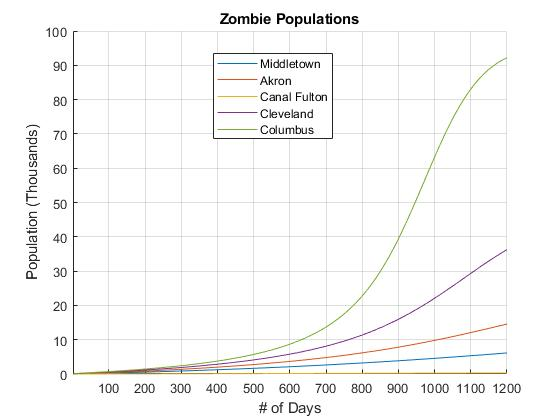
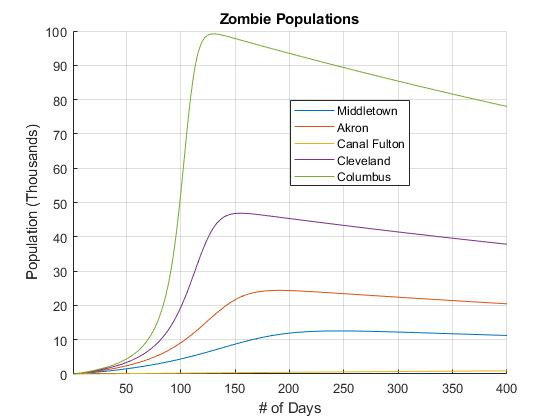
Adding p1 (completely wrong)

diff --git a/Final/p3/p3.m b/Final/p3/p3.m
@@ -2,8 +2,8 @@
 % Written by Josh Humphrey
 
 % Model Parameters
-days = 180;
-T = 1;
+days = 400;
+T = 0.5;
 t = linspace(1,days,days);
 alpha = 0.005;
 beta = 0.0055;
@@ -26,7 +26,7 @@ I = zeros(1,days); % Infected Group
 Z = zeros(1,days); % Zombies
 R = zeros(1,days); % Raise-able
 K = zeros(1,days); % Unable to be re-animated
-S(1)= Columbus;
+S(1)= Cleveland;
 I(1)= 0;
 Z(1)= 0;
 R(1)= 0;
@@ -41,27 +41,51 @@ for k = 1:days-1
     RK1 = delta*S(k)-zeta*R(k);
     KK1 = delta*I(k)+alpha*S(k)*Z(k);
 
-    MidS = S(k)+(T)*SK1;
-    MidI = I(k)+(T)*IK1;
-    MidZ = Z(k)+(T)*ZK1;
-    MidR = R(k)+(T)*RK1;    
-    MidK = K(k)+(T)*KK1;
+    MidS1 = S(k)+(T/2)*SK1;
+    MidI1 = I(k)+(T/2)*IK1;
+    MidZ1 = Z(k)+(T/2)*ZK1;
+    MidR1 = R(k)+(T/2)*RK1;    
+    MidK1 = K(k)+(T/2)*KK1;
     
-    SK2 = p*MidS-beta*MidZ*MidS-delta*MidS+c*MidZ;
-    IK2 = beta*MidZ*MidS-rho*MidI-delta*MidI;
-    ZK2 = rho*MidI+zeta*MidR-alpha*MidS*MidZ-c*MidZ;
-    RK2 = delta*MidS-zeta*MidR;
-    KK2 = delta*MidI+alpha*MidS*MidZ;
+    SK2 = p*MidS1-beta*MidZ1*MidS1-delta*MidS1+c*MidZ1;
+    IK2 = beta*MidZ1*MidS1-rho*MidI1-delta*MidI1;
+    ZK2 = rho*MidI1+zeta*MidR1-alpha*MidS1*MidZ1-c*MidZ1;
+    RK2 = delta*MidS1-zeta*MidR1;
+    KK2 = delta*MidI1+alpha*MidS1*MidZ1;
 
-    S(k+1) = S(k)+(T/2)*(SK1 + SK2);
-    I(k+1) = I(k)+(T/2)*(IK1 + IK2);
-    Z(k+1) = Z(k)+(T/2)*(ZK1 + ZK2);
-    R(k+1) = R(k)+(T/2)*(RK1 + RK2);
-    K(k+1) = K(k)+(T/2)*(KK1 + KK2);
+    MidS2 = S(k)+(T/2)*SK2;
+    MidI2 = I(k)+(T/2)*IK2;
+    MidZ2 = Z(k)+(T/2)*ZK2;
+    MidR2 = R(k)+(T/2)*RK2;    
+    MidK2 = K(k)+(T/2)*KK2;
+    
+    SK3 = p*MidS2-beta*MidZ2*MidS2-delta*MidS2+c*MidZ2;
+    IK3 = beta*MidZ2*MidS2-rho*MidI2-delta*MidI2;
+    ZK3 = rho*MidI2+zeta*MidR2-alpha*MidS2*MidZ2-c*MidZ2;
+    RK3 = delta*MidS2-zeta*MidR2;
+    KK3 = delta*MidI2+alpha*MidS2*MidZ2;
+    
+    MidS3 = S(k)+(T)*SK3;
+    MidI3 = I(k)+(T)*IK3;
+    MidZ3 = Z(k)+(T)*ZK3;
+    MidR3 = R(k)+(T)*RK3;    
+    MidK3 = K(k)+(T)*KK3;
+    
+    SK4 = p*MidS3-beta*MidZ3*MidS3-delta*MidS3+c*MidZ3;
+    IK4 = beta*MidZ3*MidS3-rho*MidI3-delta*MidI3;
+    ZK4 = rho*MidI3+zeta*MidR3-alpha*MidS3*MidZ3-c*MidZ3;
+    RK4 = delta*MidS3-zeta*MidR3;
+    KK4 = delta*MidI3+alpha*MidS3*MidZ3;
+    
+    S(k+1) = S(k)+(T/6)*(SK1 + 2*SK2 + 2*SK3 + SK4);
+    I(k+1) = I(k)+(T/6)*(IK1 + 2*IK2 + 2*IK3 + IK4);
+    Z(k+1) = Z(k)+(T/6)*(ZK1 + 2*ZK2 + 2*ZK3 + ZK4);
+    R(k+1) = R(k)+(T/6)*(RK1 + 2*RK2 + 2*RK3 + RK4);
+    K(k+1) = K(k)+(T/6)*(KK1 + 2*KK2 + 2*KK3 + KK4);
 end
 
-Mid_Z = Z;
-Mid_H = S;
+Cle_Z = Z;
+Cle_H = S;
 
 figure(1)
 hold on
@@ -74,34 +98,34 @@ xlim([1,days])
 grid on
 xlabel('# of Days')
 ylabel('Population (Thousands)')
-title('Zombie Outbreak: Columbus')
+title('Zombie Outbreak: Cleveland')
 
-% figure(2)
-% hold on
-% grid on
-% plot(t,Mid_H)
-% plot(t,Akr_H)
-% plot(t,CF_H)
-% plot(t,Cle_H)
-% plot(t,Col_H)
-% title('Human Populations')
-% legend('Middletown','Akron','Canal Fulton','Cleveland','Columbus')
-% xlabel('# of Days')
-% ylabel('Population (Thousands)')
-% xlim([1,days])
-% hold off
-% 
-% figure(3)
-% hold on
-% grid on
-% plot(t,Mid_Z)
-% plot(t,Akr_Z)
-% plot(t,CF_Z)
-% plot(t,Cle_Z)
-% plot(t,Col_Z)
-% title('Zombie Populations')
-% legend('Middletown','Akron','Canal Fulton','Cleveland','Columbus')
-% xlabel('# of Days')
-% ylabel('Population (Thousands)')
-% xlim([1,days])
-% hold off
+figure(2)
+hold on
+grid on
+plot(t,Mid_H)
+plot(t,Akr_H)
+plot(t,CF_H)
+plot(t,Cle_H)
+plot(t,Col_H)
+title('Human Populations')
+legend('Middletown','Akron','Canal Fulton','Cleveland','Columbus')
+xlabel('# of Days')
+ylabel('Population (Thousands)')
+xlim([1,days])
+hold off
+
+figure(3)
+hold on
+grid on
+plot(t,Mid_Z)
+plot(t,Akr_Z)
+plot(t,CF_Z)
+plot(t,Cle_Z)
+plot(t,Col_Z)
+title('Zombie Populations')
+legend('Middletown','Akron','Canal Fulton','Cleveland','Columbus')
+xlabel('# of Days')
+ylabel('Population (Thousands)')
+xlim([1,days])
+hold off

diff --git a/Final/p1/p1.m b/Final/p1/p1.m
@@ -1,4 +1,22 @@
 % System Simuation Final: Problem 1
 % Written by Josh Humphrey
+clear
+N = 10;
+T = 1;
+t = linspace(1,11,11);
+x = zeros(0,N);
+x(1) = 0;
+x(11) = 10;
+ffx = zeros(0,N);
 
+for m = 3:9
+    ffx(m) = -1+(1/(x(m)-x(m-1)).^2)-(1/(x(m+1)-x(m)).^2);
+    x(m) = (T^2)*ffx(m-1)-x(m-2)-2*x(m-1);
+    
+end
 
+figure(1)
+plot(t,x,'o')
+title('Magnets on a Frictionless Rod')
+xlabel('Time (seconds)')
+ylabel('Position')
